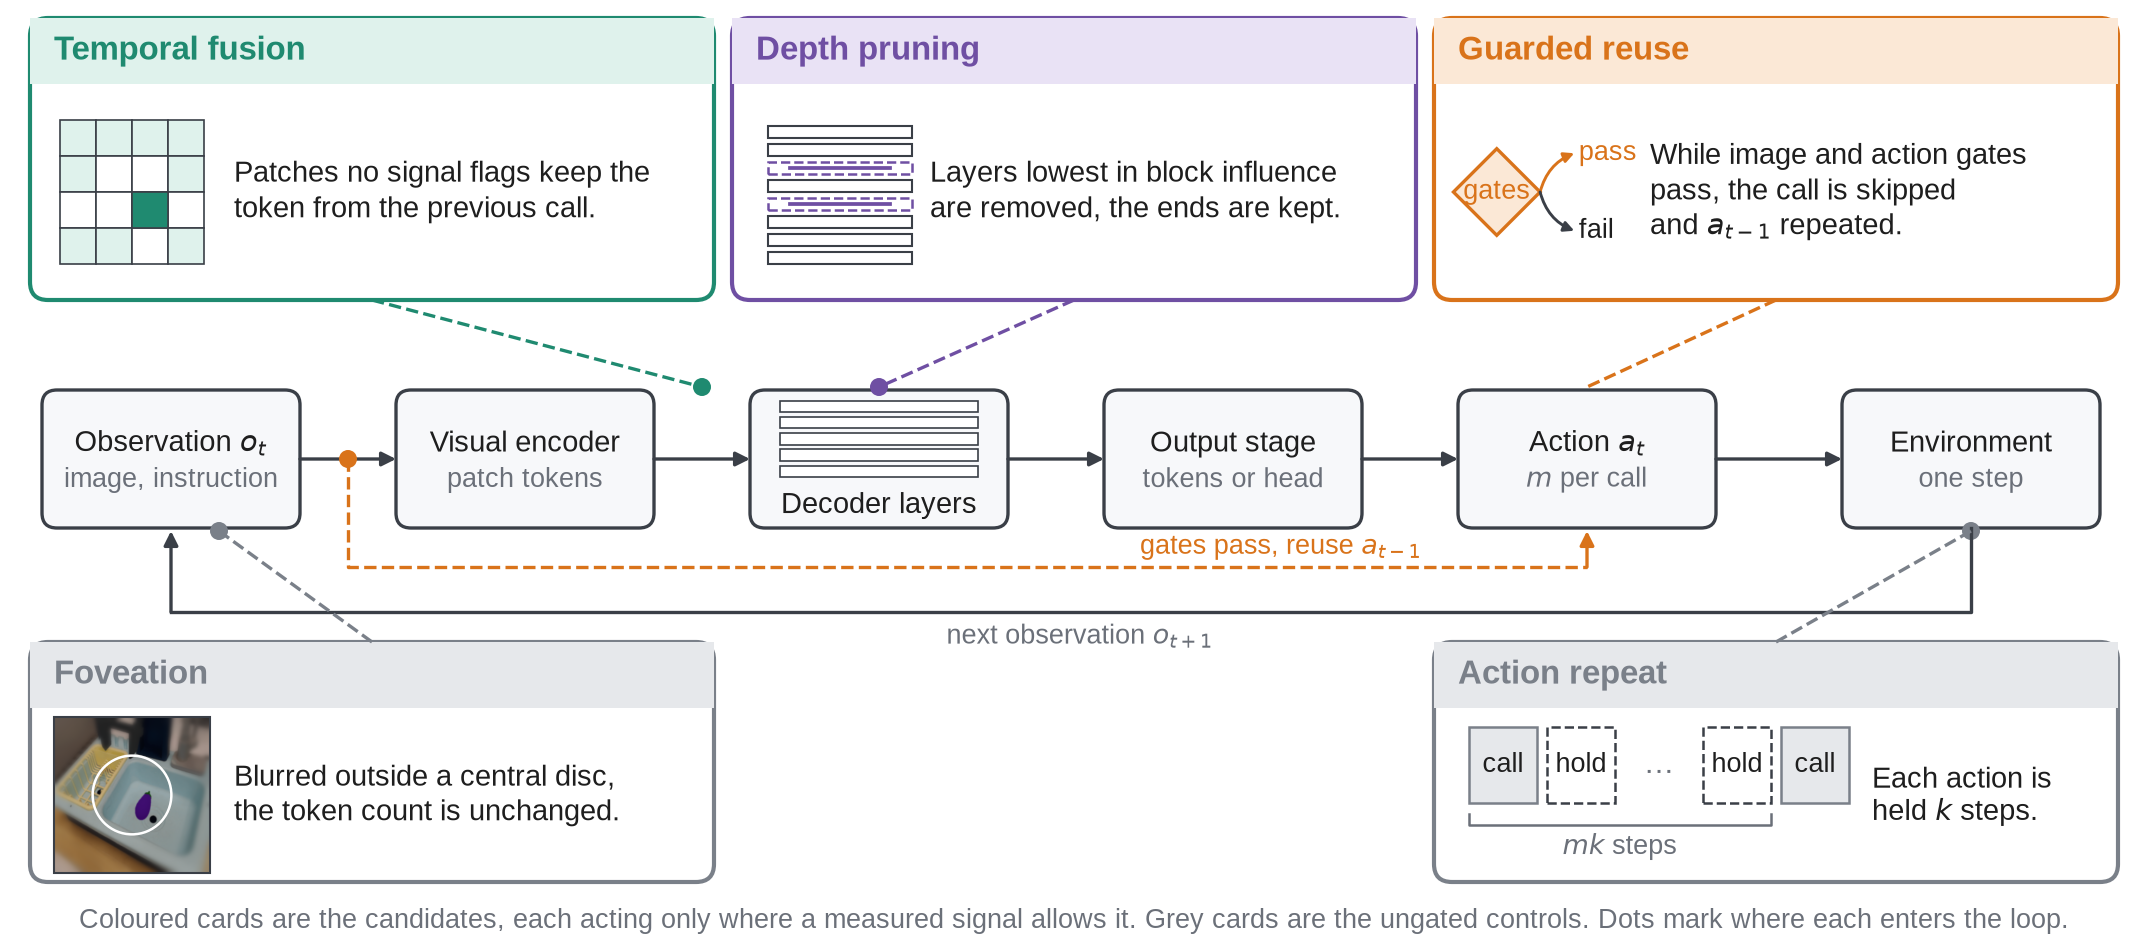
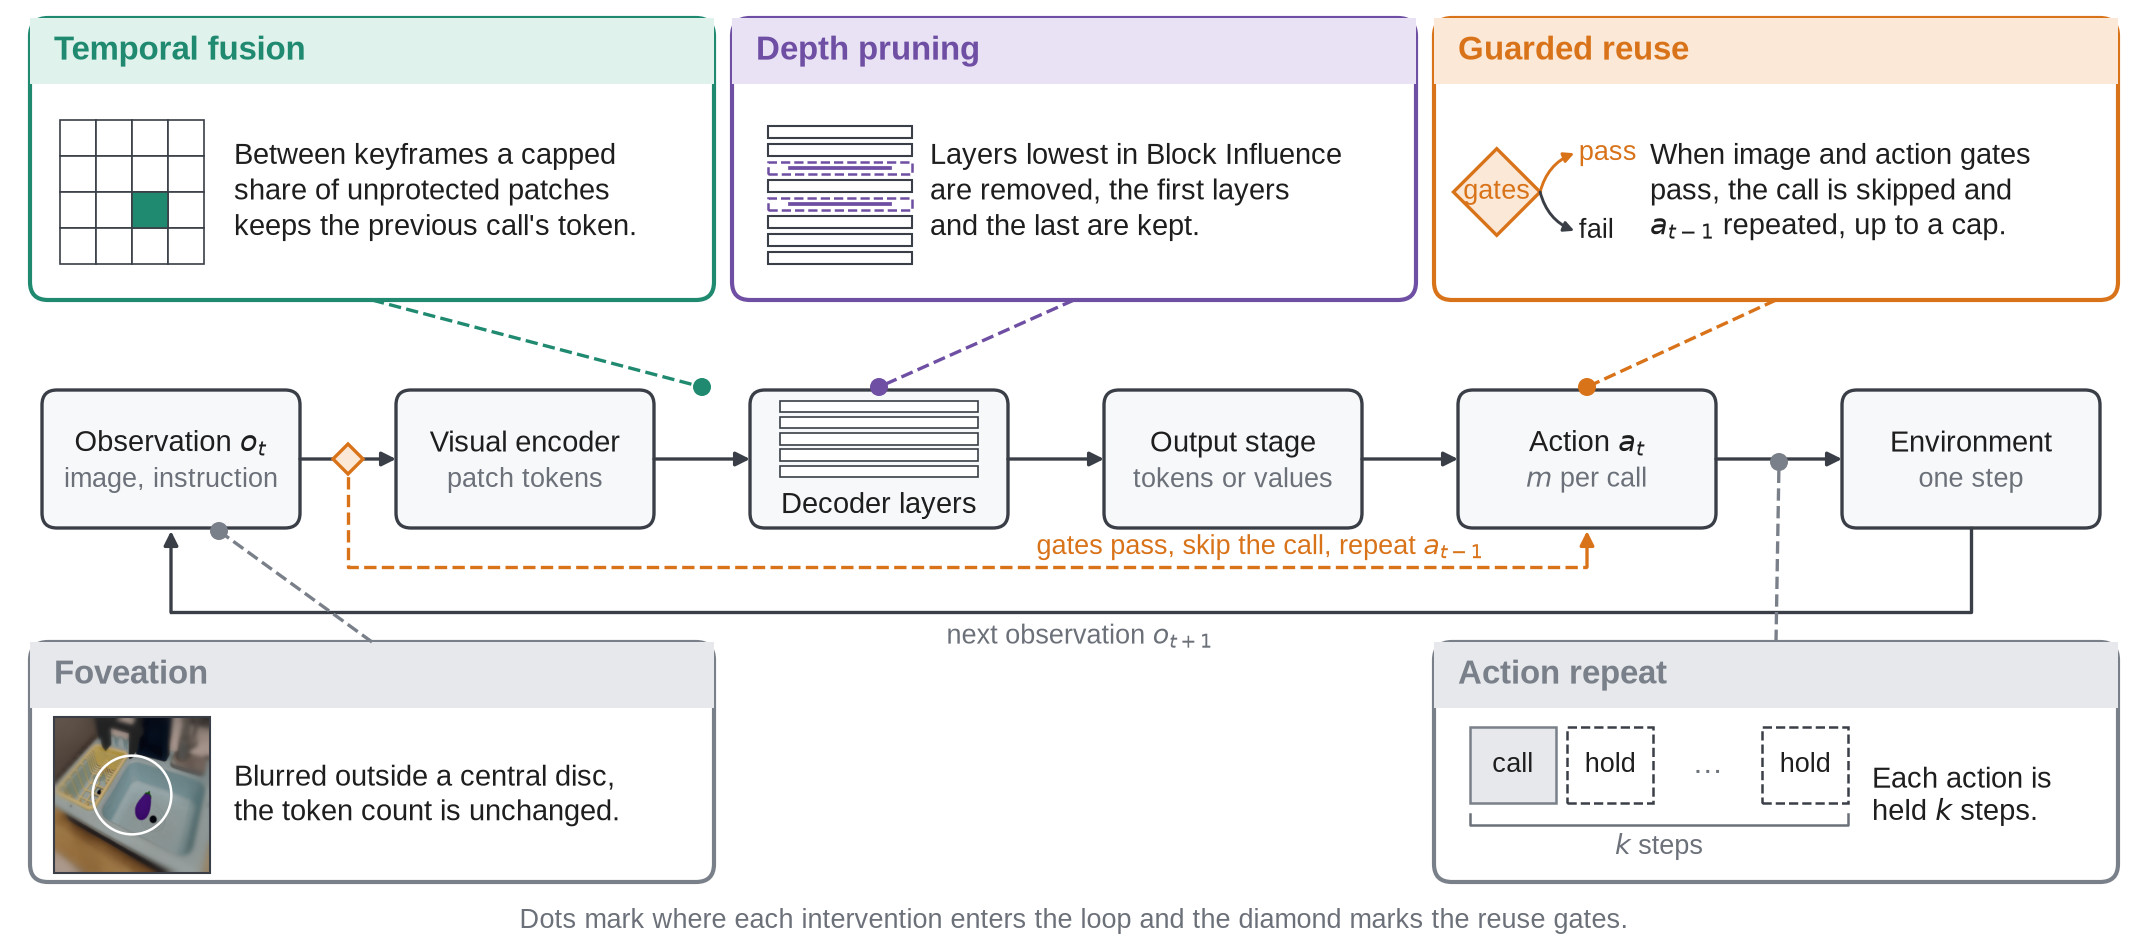
Overview A3: third review round, cap and keyframe stated, gate diamond on the observation edge, repeat on the action edge, old TikZ figure marked superseded
Claude-Session: https://claude.ai/code/session_011USoCwMtkSq1wKhwTPjNT9

diff --git a/experiments/paper/make_overview.py b/experiments/paper/make_overview.py
@@ -97,11 +97,13 @@ def icon_foveation(ax, x, y, s):
     ax.add_patch(Circle((x + s / 2, y + s / 2), 0.26 * s, fc="white", ec=PIPE_EDGE, lw=0.5))
 
 
-def icon_fusion(ax, x, y, s, color=C_FUSION, ring=True):
-    """4x4 token grid, reused cells filled, fresh cells white, ring around a flagged cell"""
+def icon_fusion(ax, x, y, s, color=C_FUSION, ring=True, reused=None):
+    """4x4 token grid, reused cells filled, fresh cells white, ring around a flagged cell.
+    reused=() draws a two-tone grid: the flagged cell dark, everything else white."""
     n = 4
     c = s / n
-    reused = {(0, 0), (0, 1), (0, 2), (0, 3), (1, 0), (1, 3), (3, 0), (3, 3), (3, 1)}
+    if reused is None:
+        reused = {(0, 0), (0, 1), (0, 2), (0, 3), (1, 0), (1, 3), (3, 0), (3, 3), (3, 1)}
     for i in range(n):
         for j in range(n):
             fc = LIGHT[color] if (i, j) in reused else "white"
@@ -141,12 +143,14 @@ def icon_reuse(ax, x, y, s, color=C_REUSE, fs=5.4, fs_gate=5.6,
     return t1, t2
 
 
-def icon_repeat(ax, x, y, s, color=C_CTRL, fs=6, h=None, span="$k$ steps"):
-    """timeline of width s: call, hold, ..., hold, call, with a bracket for k steps.
-    h: total height (defaults to 0.42 s, the original square-ish proportion)."""
+def icon_repeat(ax, x, y, s, color=C_CTRL, fs=6, h=None, span="$k$ steps",
+                labels=("call", "hold", "\u2026", "hold", "call")):
+    """timeline of width s over the given labels, with a bracket under the
+    first four boxes (one action and its holds). h: total height (defaults
+    to 0.42 s, the original square-ish proportion)."""
     if h is None:
         h = 0.42 * s
-    labels = ["call", "hold", "\u2026", "hold", "call"]
+    labels = list(labels)
     w = s / len(labels)
     bh = 0.55 * h            # box height
     yb = y + 0.40 * h        # box bottom
@@ -590,7 +594,8 @@ FRAMES = [
 
 def foveation_real(keep_ratio=0.20, size=224):
     """The fixed-foveation transform as run in the MiniVLA harness
-    (vla_tricks/foveation.py::foveate_blur on the 224 px policy input):
+    (vla_tricks/foveation.py::foveate_blur on the tricks branch, applied to
+    the 224 px policy input):
     sharp disc of area keep_ratio, then a blend into Gaussian sigma 3 and
     sigma 9 copies with distance. Applied to a real Bridge observation
     resized to the policy input size, as the harness does."""
@@ -629,7 +634,7 @@ def candidate_A3(verbose=True):
     for i in range(5):
         ax.add_patch(Rectangle((xs["dec"] + 0.10, py + 0.17 + i * 0.054), bw - 0.2, 0.038, fc="white", ec=PIPE_EDGE, lw=0.4))
     ax.text(xs["dec"] + bw / 2, py + 0.075, "Decoder layers", ha="center", va="center", fontsize=FS_BODY, color=INK)
-    box(ax, xs["out"], py, bw, ph, "Output stage", fs=FS_BODY, sub="tokens or head", subfs=FS_SUB)
+    box(ax, xs["out"], py, bw, ph, "Output stage", fs=FS_BODY, sub="tokens or values", subfs=FS_SUB)
     box(ax, xs["act"], py, bw, ph, "Action $a_t$", fs=FS_BODY, sub="$m$ per call", subfs=FS_SUB)
     box(ax, xs["env"], py, bw, ph, "Environment", fs=FS_BODY, sub="one step", subfs=FS_SUB)
     for a, b in [("obs", "enc"), ("enc", "dec"), ("dec", "out"), ("out", "act"), ("act", "env")]:
@@ -643,8 +648,10 @@ def candidate_A3(verbose=True):
     gx, by = xs["obs"] + bw + 0.16, py - 0.13
     ax.plot([gx, gx, xs["act"] + bw / 2], [py + ph / 2, by, by], color=C_REUSE, lw=0.8, ls="--")
     arrow(ax, xs["act"] + bw / 2, by, xs["act"] + bw / 2, py - 0.01, color=C_REUSE)
-    ax.add_patch(Circle((gx, py + ph / 2), 0.03, fc=C_REUSE, ec="none"))
-    ax.text(4.27, by + 0.065, "gates pass, reuse $a_{t-1}$", ha="center", va="center", fontsize=FS_SUB, color=C_REUSE)
+    d = 0.05
+    ax.add_patch(Polygon([(gx - d, py + ph / 2), (gx, py + ph / 2 + d), (gx + d, py + ph / 2), (gx, py + ph / 2 - d)],
+                         closed=True, fc=LIGHT[C_REUSE], ec=C_REUSE, lw=0.8, zorder=5))
+    ax.text(4.20, by + 0.065, "gates pass, skip the call, repeat $a_{t-1}$", ha="center", va="center", fontsize=FS_SUB, color=C_REUSE)
 
     def card(x, y, w, h, col, title):
         box(ax, x, y, w, h, fill="white", edge=col, lw=1.0, rounding=0.06)
@@ -665,20 +672,20 @@ def candidate_A3(verbose=True):
     bm = cy + (ch - 0.22) / 2
     x = 0.10
     body = card(x, cy, cw, ch, C_FUSION, "Temporal fusion")
-    icon_fusion(ax, x + 0.10, cy + 0.12, 0.48, ring=False)
-    sentence(x + 0.68, bm, "Patches no signal flags keep the\ntoken from the previous call.", body)
+    icon_fusion(ax, x + 0.10, cy + 0.12, 0.48, ring=False, reused=())
+    sentence(x + 0.68, bm, "Between keyframes a capped\nshare of unprotected patches\nkeeps the previous call's token.", body)
     attach(x + cw / 2, cy, xs["enc"] + bw + 0.16, py + ph + 0.01, C_FUSION)
     x = 2.44
     body = card(x, cy, cw, ch, C_DEPTH, "Depth pruning")
     icon_depth(ax, x + 0.12, cy + 0.11, 0.48, protected=())
-    sentence(x + 0.66, bm, "Layers lowest in block influence\nare removed, the ends are kept.", body)
+    sentence(x + 0.66, bm, "Layers lowest in Block Influence\nare removed, the first layers\nand the last are kept.", body)
     attach(x + cw / 2, cy, xs["dec"] + bw / 2, py + ph + 0.01, C_DEPTH)
     x = 4.78
     body = card(x, cy, cw, ch, C_REUSE, "Guarded reuse")
     for t in icon_reuse(ax, x + 0.08, cy + 0.17, 0.38, fs=FS_SUB, fs_gate=FS_SUB, labels=("pass", "fail")):
         fit.append((t, body))
-    sentence(x + 0.72, bm, "While image and action gates\npass, the call is skipped\nand $a_{t-1}$ repeated.", body)
-    line(ax, x + cw / 2, cy, xs["act"] + bw / 2, py + ph + 0.01, color=C_REUSE, lw=0.8)  # the reuse dot is the gate on the observation edge
+    sentence(x + 0.72, bm, "When image and action gates\npass, the call is skipped and\n$a_{t-1}$ repeated, up to a cap.", body)
+    attach(x + cw / 2, cy, xs["act"] + bw / 2, py + ph + 0.01, C_REUSE)
 
     # --- controls below, in the outer columns ---
     ky, kh, kw = 0.22, 0.80, 2.28
@@ -694,13 +701,12 @@ def candidate_A3(verbose=True):
     attach(x + kw / 2, ky + kh, xs["obs"] + bw / 2 + 0.16, py - 0.01, C_CTRL)
     x = W - 0.10 - kw
     body = card(x, ky, kw, kh, C_CTRL, "Action repeat")
-    icon_repeat(ax, x + 0.10, ky + 0.08, 1.30, fs=FS_SUB, h=0.46, span="$mk$ steps")
+    icon_repeat(ax, x + 0.10, ky + 0.08, 1.30, fs=FS_SUB, h=0.46, span="$k$ steps", labels=("call", "hold", "\u2026", "hold"))
     sentence(x + 1.46, ky + (kh - 0.22) / 2, "Each action is\nheld $k$ steps.", body)
-    attach(x + kw / 2, ky + kh, xs["env"] + bw / 2, py - 0.01, C_CTRL)
+    attach(x + kw / 2, ky + kh, (xs["act"] + bw + xs["env"]) / 2, py + ph / 2 - 0.01, C_CTRL)
 
     # --- legend, one line ---
-    t = ax.text(W / 2, 0.09, "Coloured cards are the candidates, each acting only where a measured signal allows it. "
-                "Grey cards are the ungated controls. Dots mark where each enters the loop.",
+    t = ax.text(W / 2, 0.09, "Dots mark where each intervention enters the loop and the diamond marks the reuse gates.",
                 ha="center", va="center", fontsize=FS_SUB, color=GREY)
     fit.append((t, (0, 0, W, H)))
     if verbose:

diff --git a/experiments/paper/figpipeline.tex b/experiments/paper/figpipeline.tex
@@ -1,4 +1,9 @@
 % ---------------------------------------------------------------------------
+% SUPERSEDED 2026-09-06 by figoverview.tex (Fig. 1, figures/overview_A3.pdf),
+% which carries the same five methods on the same loop. Do not include both.
+% Kept for the TikZ source only. Its repeat tag sits on the action output,
+% the overview puts it on the action-to-environment edge.
+%
 % Figure -- where the five methods apply in the VLA inference pipeline (v2).
 % Gives Section III visual weight and shows each family's role at a glance.
 %

diff --git a/experiments/paper/figoverview.tex b/experiments/paper/figoverview.tex
@@ -8,7 +8,7 @@
   \caption{Where each intervention enters the control loop of a frozen VLA
   policy. Candidates (top) act on the vision tokens, the decoder depth, and
   the policy call. Controls (bottom) act on the input image and on how long
-  each action is held. Every variant is scored against the dense reference
+  each action is held. Every condition is scored against the dense reference
   on matched episodes.}
   \label{fig:overview}
 \end{figure*}
